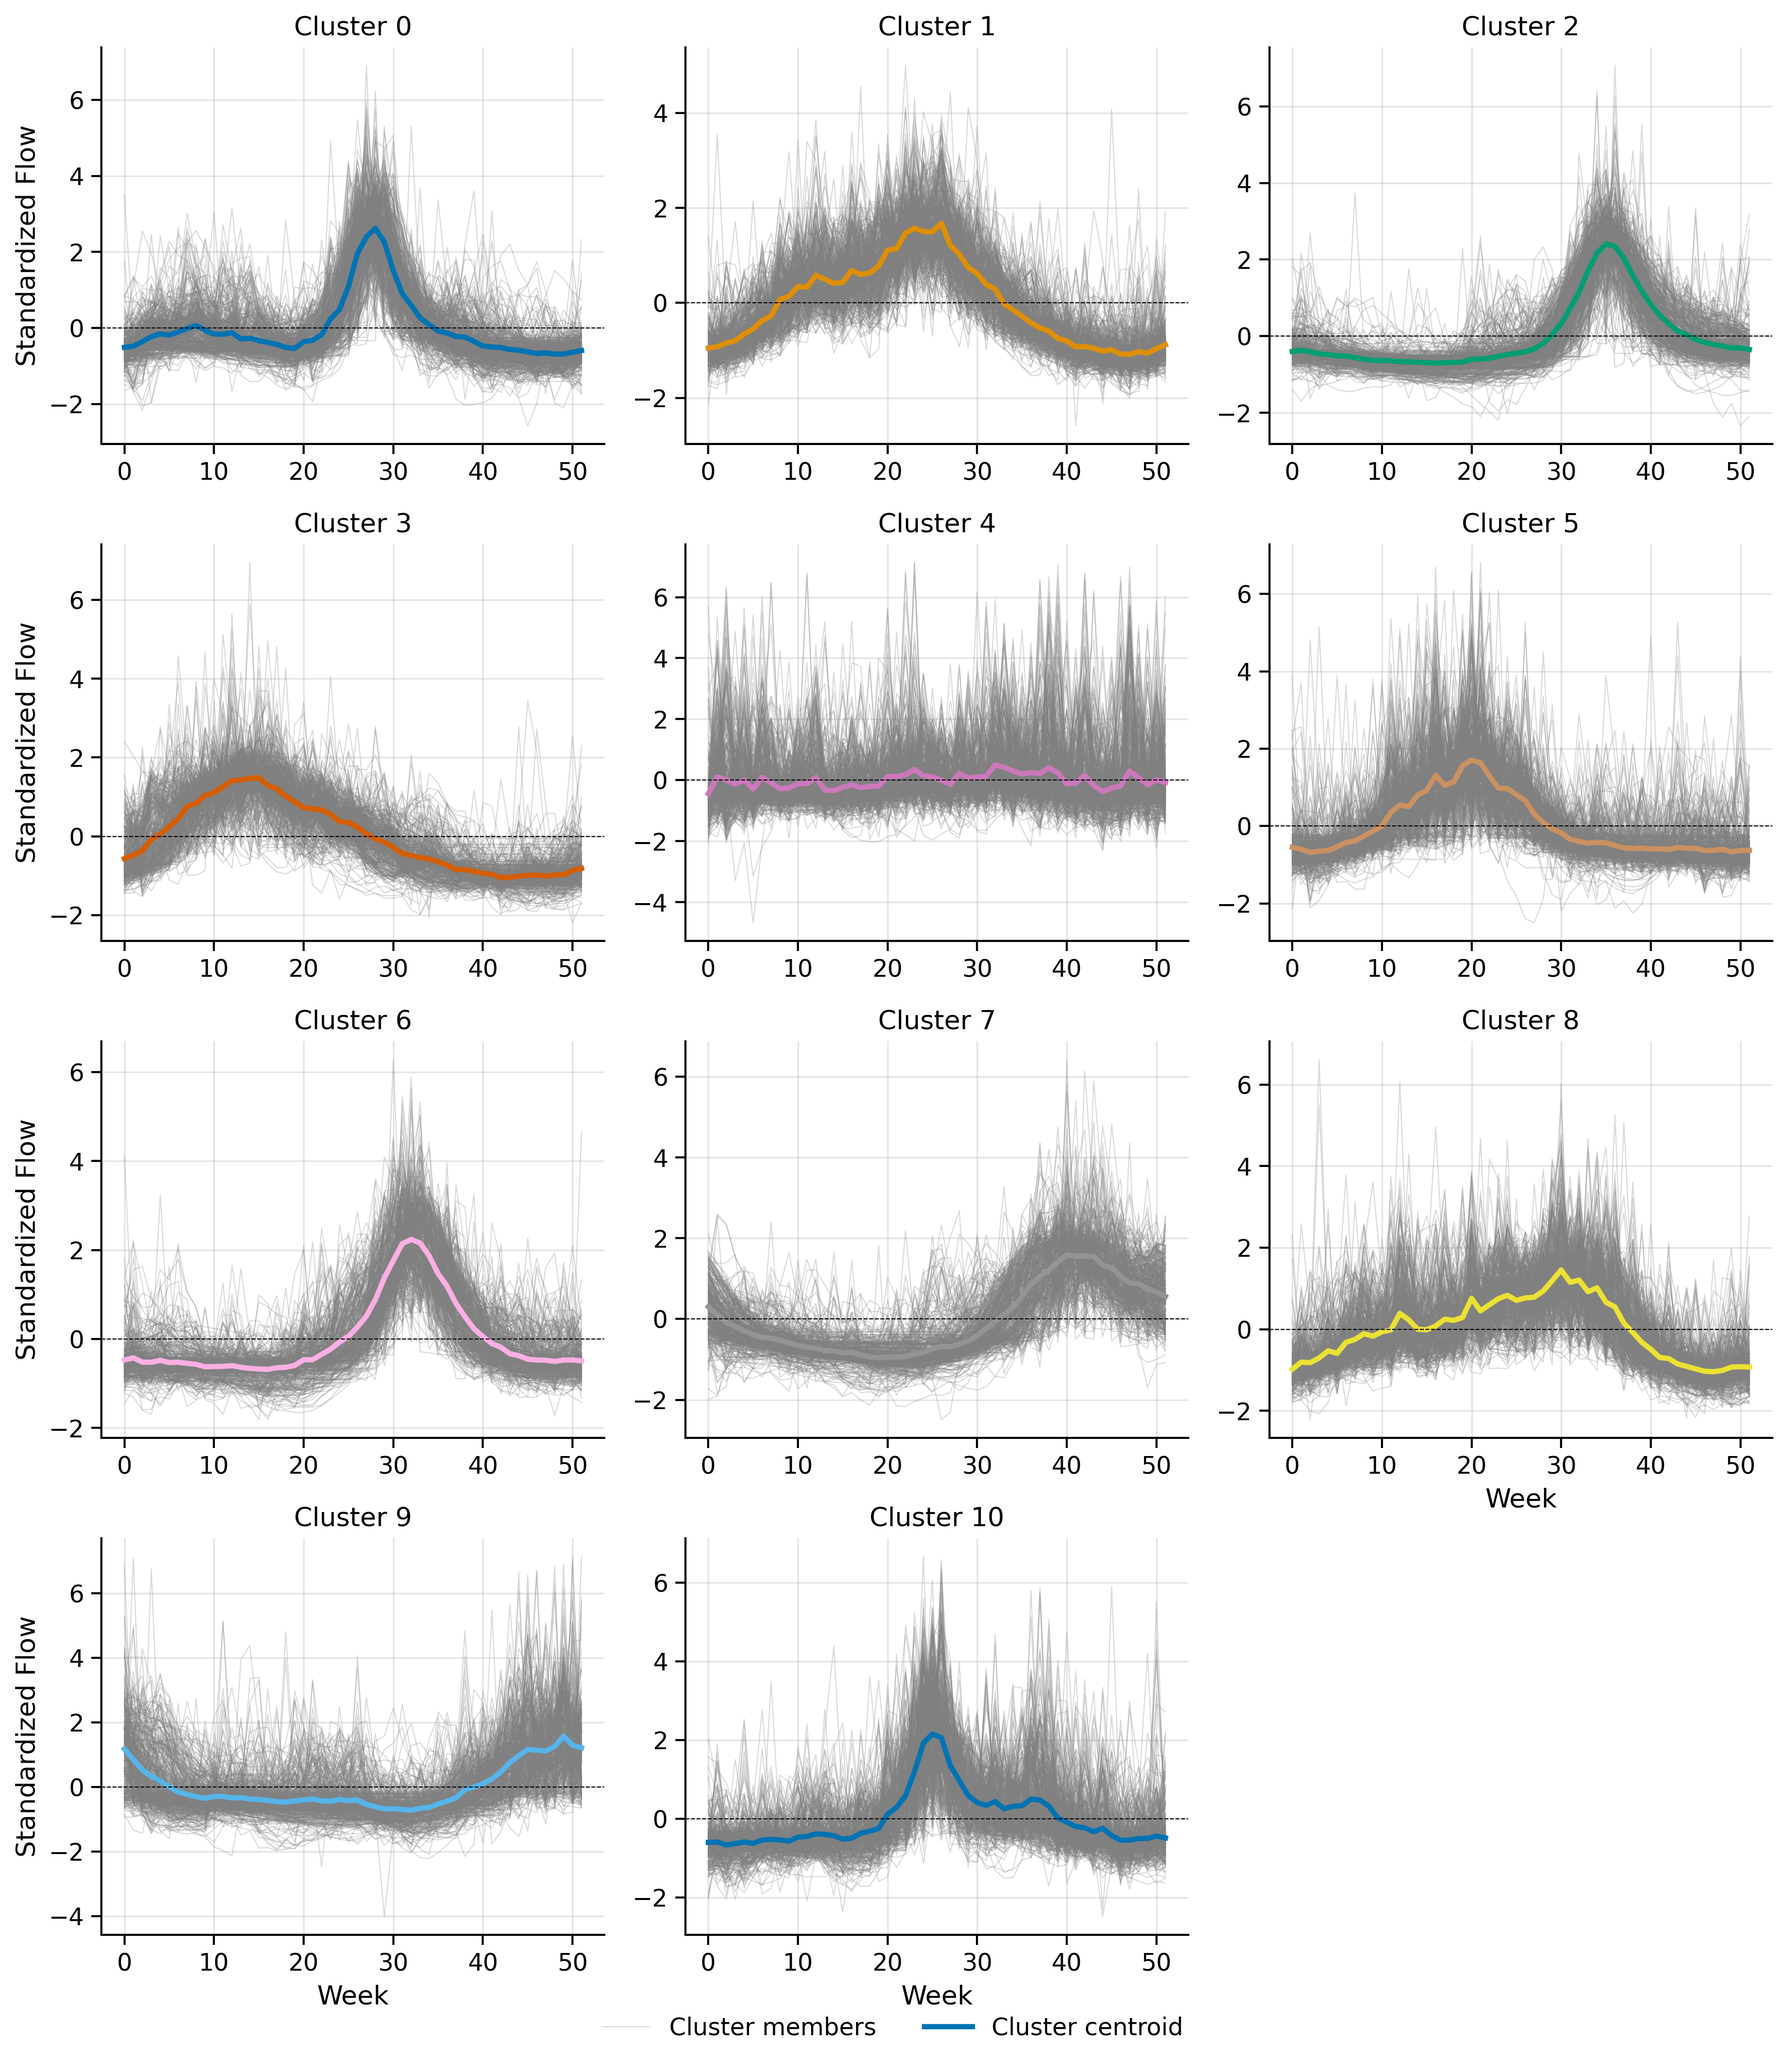
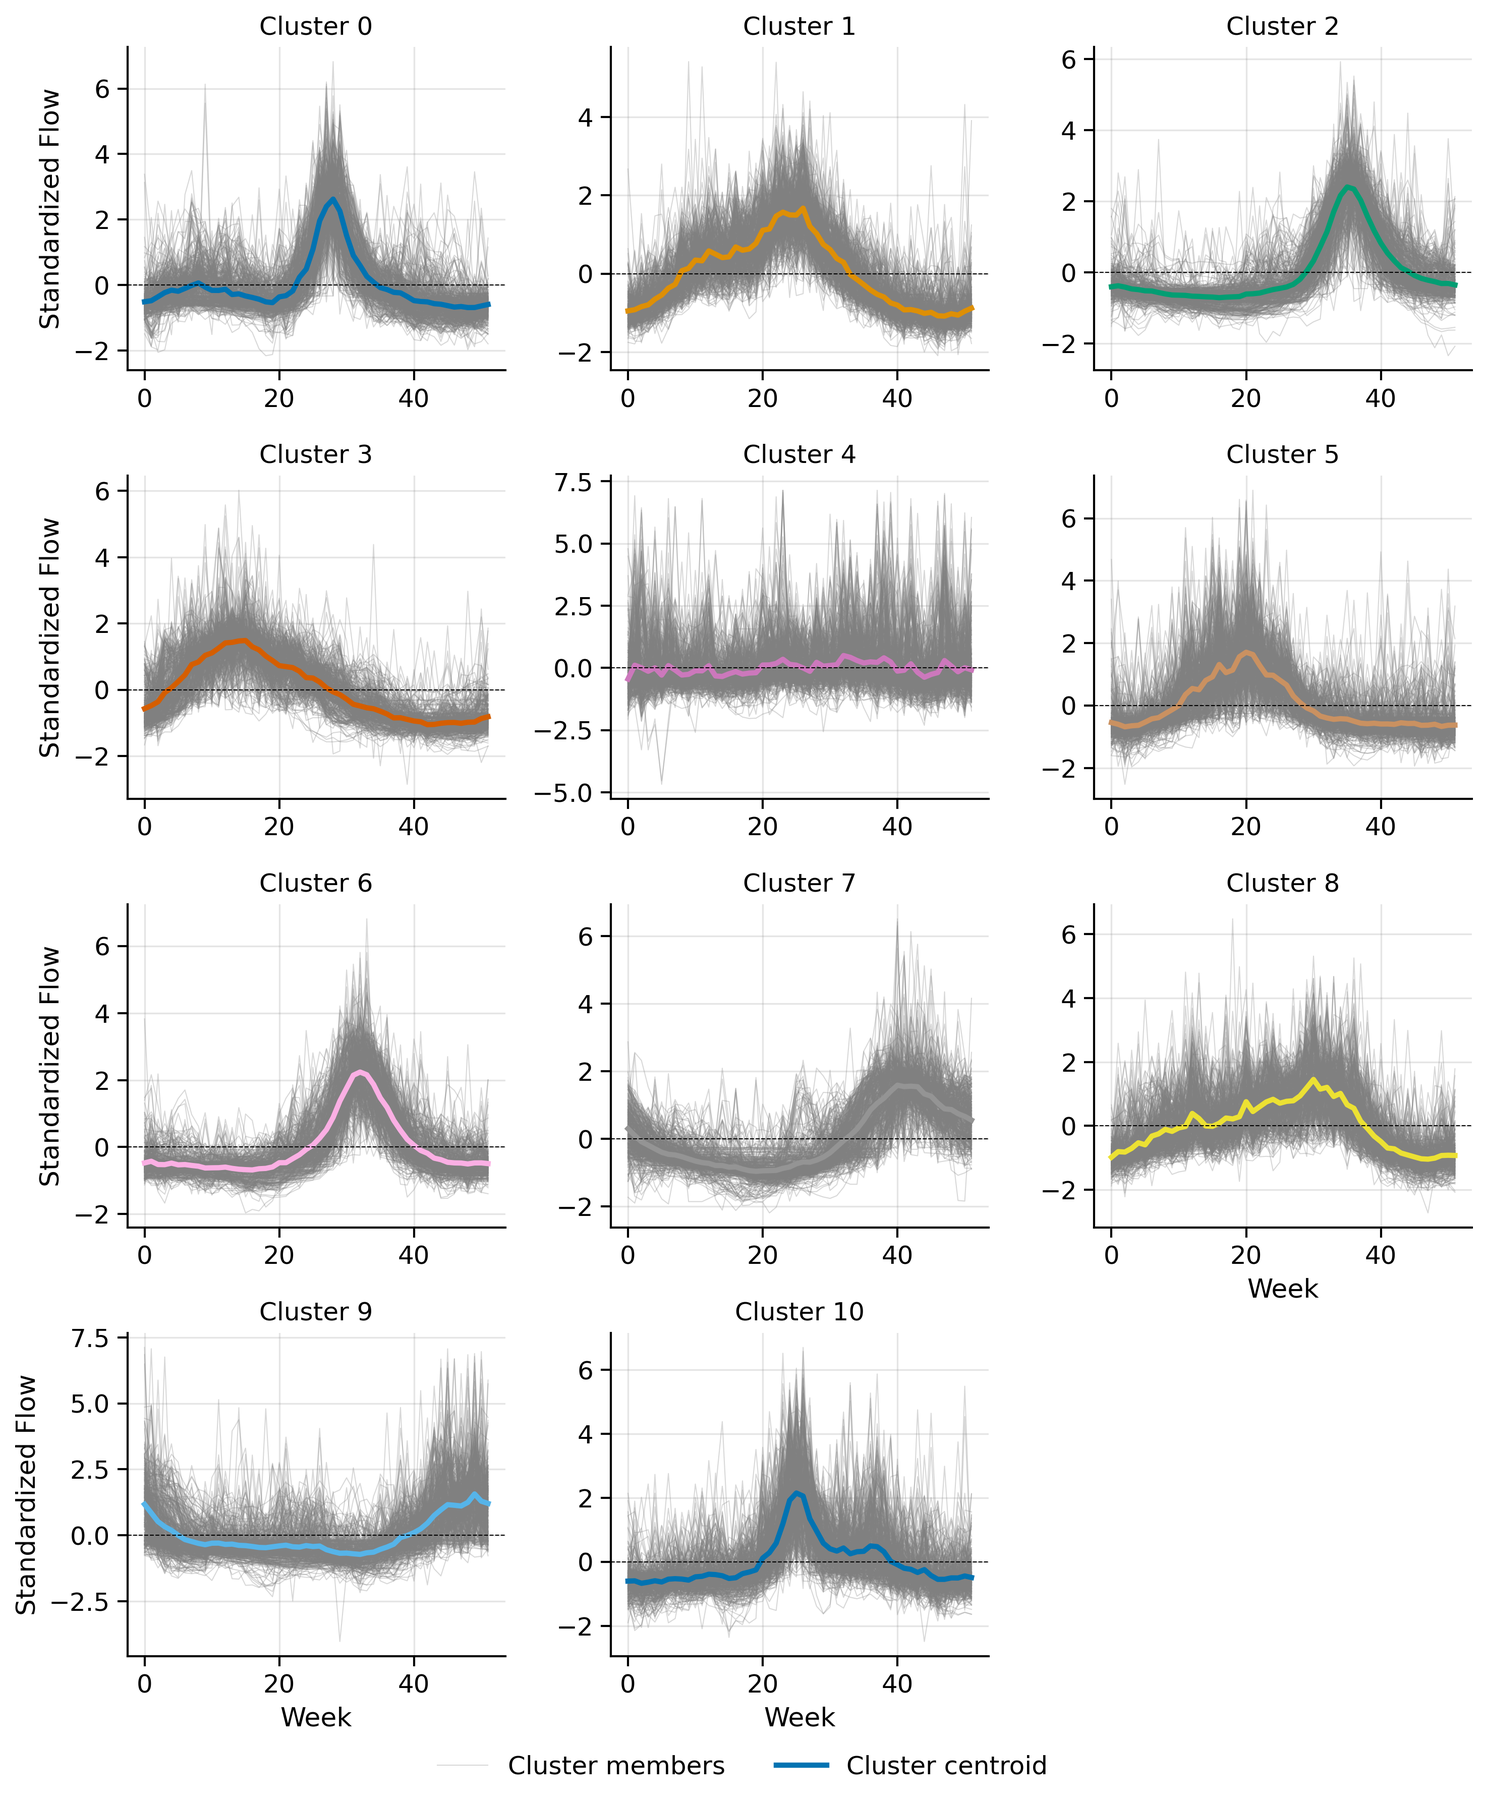
cluster plot

diff --git a/scripts/cluster_basins/plot_clusters_custom.py b/scripts/cluster_basins/plot_clusters_custom.py
@@ -51,10 +51,10 @@ class PlotConfig:
     zero_line_width: float = 0.5
 
     # Font settings
-    # title_fontsize: int = 12
-    # axis_label_fontsize: int = 10
-    # tick_label_fontsize: int = 8
-    # legend_fontsize: int = 10
+    title_fontsize: int = 12
+    axis_label_fontsize: int = 12
+    tick_label_fontsize: int = 12
+    legend_fontsize: int = 12
     font_family: str = "sans-serif"
 
     # Axis labels
@@ -71,7 +71,7 @@ class PlotConfig:
     legend_location: str = "lower center"
     legend_ncol: int = 2
     legend_frameon: bool = False
-    legend_bbox_anchor: tuple[float, float] = (0.5, 0.02)
+    legend_bbox_anchor: tuple[float, float] = (0.5, 0)
 
     # Layout
     subplot_adjust_bottom: float = 0.1
@@ -297,13 +297,18 @@ def plot_clusters(
     # Create figure
     fig, axes = plt.subplots(rows, cols, figsize=plot_config.figure_size, squeeze=False)
 
-    # # Set font properties
-    # plt.rcParams.update(
-    #     {
-    #         # "font.family": plot_config.font_family,
-    #         # "font.size": plot_config.axis_label_fontsize,
-    #     }
-    # )
+    # Set font properties globally
+    plt.rcParams.update(
+        {
+            "font.family": plot_config.font_family,
+            "font.size": plot_config.axis_label_fontsize,
+            "axes.titlesize": plot_config.title_fontsize,
+            "axes.labelsize": plot_config.axis_label_fontsize,
+            "xtick.labelsize": plot_config.tick_label_fontsize,
+            "ytick.labelsize": plot_config.tick_label_fontsize,
+            "legend.fontsize": plot_config.legend_fontsize,
+        }
+    )
 
     # Flatten axes for easier indexing
     axes_flat = axes.flatten()
@@ -384,8 +389,8 @@ def plot_clusters(
         if plot_config.y_min is not None or plot_config.y_max is not None:
             ax.set_ylim(plot_config.y_min, plot_config.y_max)
 
-        # Tick label size
-        ax.tick_params(axis="both")
+        # Tick label size (already set via rcParams, but explicit setting as backup)
+        ax.tick_params(axis="both", labelsize=plot_config.tick_label_fontsize)
 
         # Remove spines if requested
         if plot_config.remove_spines:
@@ -403,6 +408,7 @@ def plot_clusters(
         ncol=plot_config.legend_ncol,
         bbox_to_anchor=plot_config.legend_bbox_anchor,
         frameon=plot_config.legend_frameon,
+        fontsize=plot_config.legend_fontsize,
     )
 
     # Layout adjustments
@@ -441,16 +447,16 @@ def main():
 
     # Plot configuration - easily customizable for thesis style
     plot_config = PlotConfig(
-        figure_size=(12, 14),
+        figure_size=(10, 12),
         dpi=300,
         max_cols=3,
         member_color="gray",
         member_alpha=0.3,
         centroid_linewidth=2.5,
-        # title_fontsize=12,
-        # axis_label_fontsize=12,
-        # tick_label_fontsize=12,
-        # legend_fontsize=12,
+        title_fontsize=12,
+        axis_label_fontsize=12,
+        tick_label_fontsize=12,
+        legend_fontsize=12,
         show_grid=True,
         grid_alpha=0.2,
         subplot_adjust_bottom=0.08,
